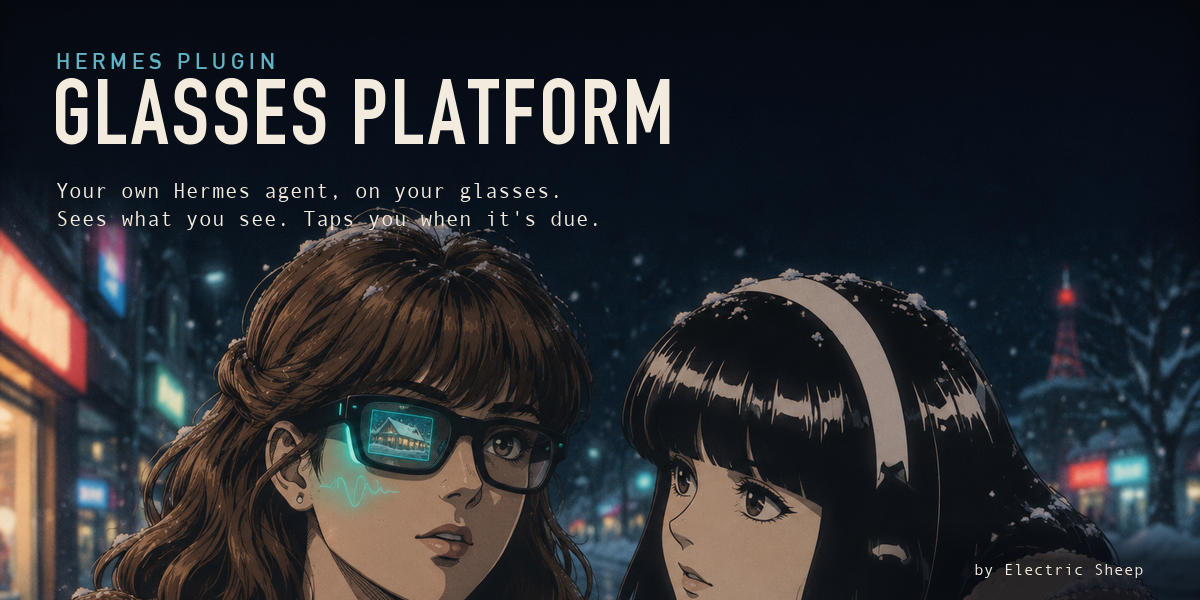
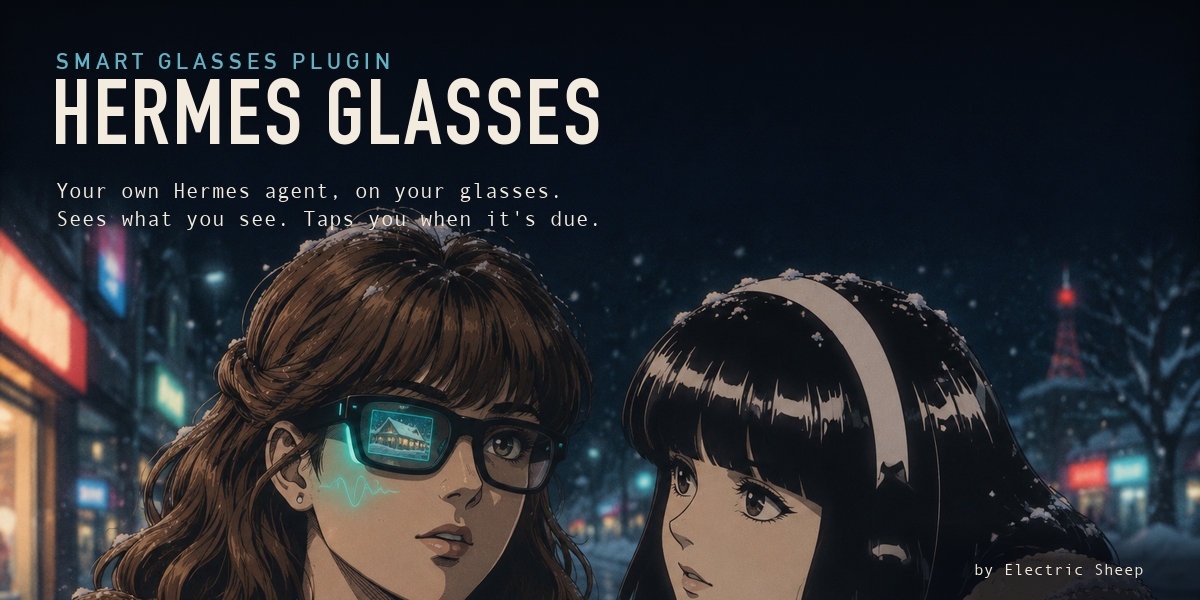
0.3.2: display name Hermes Glasses (#11)

Changed region(s): [[0.0308, 0.09, 0.5858, 0.24]]

diff --git a/README.md b/README.md
@@ -1,11 +1,13 @@
-# glasses-platform
+# Hermes Glasses
 
-![Glasses Platform: your own Hermes agent, on your glasses](docs/media/banner.png)
+![Hermes Glasses: your own Hermes agent, on your glasses](docs/media/banner.png)
+
+Plugin id and repository: `glasses-platform`.
 
 **Talk to your own Hermes agent from smart glasses.** Ask by voice, show it what you see, and hear or read the
 answer. Reminders and long tasks can reach your glasses later.
 
-> **Status: v0.3.1 preview.** The Hermes side is proven against the bundled simulator and a real Hermes
+> **Status: v0.3.2 preview.** The Hermes side is proven against the bundled simulator and a real Hermes
 > gateway with real models ([evidence](docs/evidence/M0-live-proof.md)). CI tests it on Hermes v0.22.2, v0.23.0 and
 > `main`. No real glasses or phone app has been tested yet. Read the [design plan](docs/PLAN.md), the
 > [device protocol](docs/PROTOCOL.md) and the [roadmap](ROADMAP.md).
